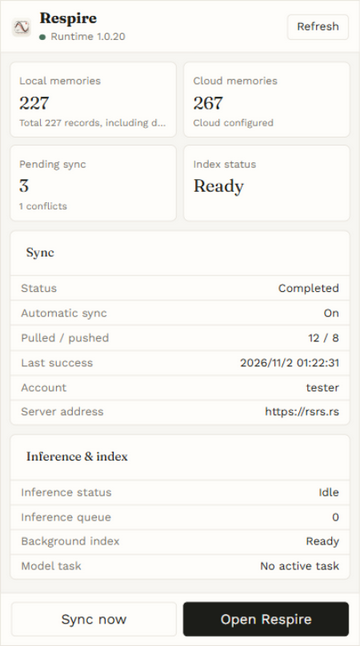
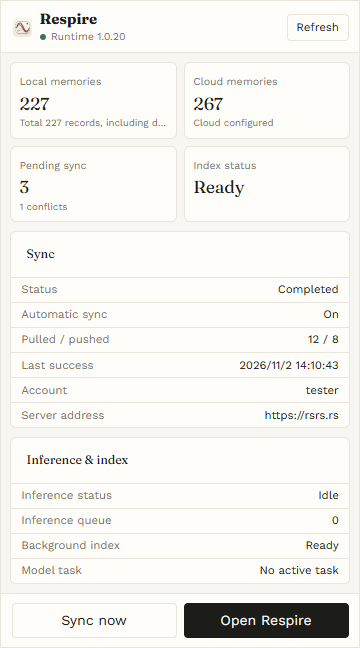
Refresh tray screenshots for Client 2 0.2.22
Render the released tray frontend with simulated data, matching the page screenshots and documenting the same verification boundary.

diff --git a/.audit/report.md b/.audit/report.md
@@ -7,7 +7,7 @@
 | 发现 | 处理与依据 | 仍需核验 |
 | --- | --- | --- |
 | 客户端指南声称 Codex 注入有界面预览。0.2.22 的安装页没有这一入口。 | 已修正中英文 `docs/client.md`；依据为发布版 `internal/desktop/frontend/pages/injection.js`。CLI 历史参考保留其版本范围。 | 没有执行真实宿主的注入。 |
-| 原有五组客户端截图来自 0.2.17，且缺少多个页面。 | 已补充 0.2.22 的 12 个页面，使用发布版前端和模拟数据；托盘图片仍来自 0.2.17。 | 模拟数据不验证 Runtime、真实账户或原生窗口。 |
+| 原有五组客户端截图来自 0.2.17，且缺少多个页面。 | 已补充 0.2.22 的 12 个页面和托盘截图，使用发布版前端和模拟数据。 | 模拟数据不验证 Runtime、真实账户或原生窗口。 |
 | Windows 安装页仍以 CLI 为主要路径。 | 中英文页面已将桌面客户端放在前面，并说明 Node.js 只用于下方的 CLI 路径。 | 未在新安装的 Windows 系统上执行完整安装。 |
 | 0.2.22 英文界面的部分文字仍为中文。 | 截图保留真实界面文字，并在客户端指南中注明。 | 客户端翻译需要在客户端仓库修复；本轮不修改该仓库。 |
 
@@ -27,7 +27,7 @@
 | 更新 | `pages/settings.js` | 客户端和 CLI 的通道、检查和更新。 |
 | 操作记录 | `pages/settings.js` | 请求状态、回执和查询原请求。 |
 | 诊断 | `pages/settings.js` | 连接状态、检查和诊断导出。 |
-| 托盘 | `quickpanel.js`、`internal/desktop/app.go` | 快捷面板、同步、窗口和 Runtime 操作；沿用 0.2.17 的图片。 |
+| 托盘 | `quickpanel.js`、`internal/desktop/app.go` | 快捷面板、同步、窗口和 Runtime 操作。 |
 
 状态：文档修改和指定检查已完成；未实测或仍需后续核验的事项见各条状态。以下发现记录审查时的问题，不表示修改后仍然存在。
 

diff --git a/docs/client.md b/docs/client.md
@@ -26,7 +26,7 @@ The graph displays up to 300 nodes per page, with cross-page relationships, zoom
 
 ## Screen walkthrough {#screen-walkthrough}
 
-The page screenshots show the Client 2 0.2.22 frontend running in a browser with simulated data. Accounts, counts and task states are examples. The tray screenshot is from 0.2.17. These images illustrate the interface; they are not native acceptance results for each platform. Some interface text is still Chinese when English is selected.
+The page and tray screenshots show the Client 2 0.2.22 frontend running in a browser with simulated data. Accounts, counts and task states are examples. These images illustrate the interface; they are not native acceptance results for each platform. Some interface text is still Chinese when English is selected.
 
 ### Overview and tray {#overview-and-tray}
 
